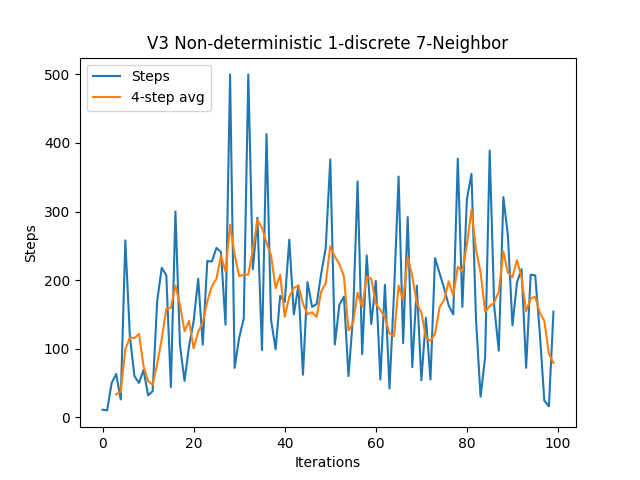
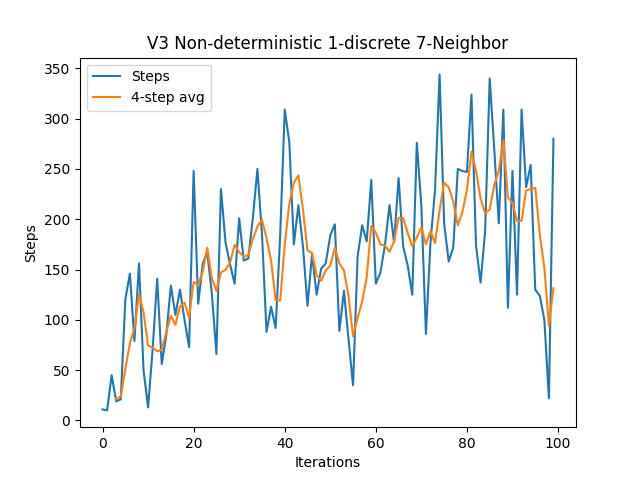
Lots of graphs, everything still run on 0.80 remembrance

diff --git a/classes/TreeV3.py b/classes/TreeV3.py
@@ -6,7 +6,7 @@ from classes.State import *
 
 
 class TreeV3:
-    def __init__(self, observation, num_nodes_checked=3, stop_exploring_distance=0.2):
+    def __init__(self, observation, num_nodes_checked=3, stop_exploring_distance=0.2, layers_checked=1):
         self.state_actions = [[], []]
         self.state_actions_linalg = [np.zeros((0, 4)), np.zeros((0, 4))]
         self.nodes = {}
@@ -19,6 +19,7 @@ class TreeV3:
         self.num_nodes_checked = num_nodes_checked
         self.stop_exploring_distance = stop_exploring_distance
         self.most_recent_action = -1
+        self.layers_checked = layers_checked
 
 
 
@@ -30,9 +31,16 @@ class TreeV3:
         self.steps_alive = 0
         self.update_result(observation)
 
-
     def pick_action(self):
+        evs = self.multi_lvl_evs(self.current_node.state, self.layers_checked)
+        action = np.argmin(evs)
+        self.most_recent_action = action
+        return action
+
+    def old_pick_action(self):
+        raise Exception("Deprecated")
         current_state = self.current_node.state
+
         new_states, farthest_distances = self.calc_new_states(current_state)
         if self.should_explore_given(farthest_distances):
             if farthest_distances[0] == -1:
@@ -46,6 +54,8 @@ class TreeV3:
             action = np.argmin(evs)
         self.most_recent_action = action
         return action
+
+
 
     def update_result(self, observation, terminated=False):
         if terminated:
@@ -84,6 +94,35 @@ class TreeV3:
         return len(self.nodes)
 
     ############### Internal helper functions ####################################
+
+    def multi_lvl_evs(self, current_state, layers_left):
+        new_states, farthest_distances = self.calc_new_states(current_state)
+
+        if layers_left == self.layers_checked and self.should_explore_given(farthest_distances):
+            if farthest_distances[0] == -1:
+                action = 0
+            elif farthest_distances[1] == -1:
+                action = 1
+            else:
+                action = 0 if farthest_distances[0] >= farthest_distances[1] else 1
+            evs = [1, 1]
+            evs[action] = 0
+            return evs
+
+
+        if layers_left == 1:
+            evs = self.get_evs_of_states(new_states)
+        else:
+            evs = []
+            for state in new_states:
+                next_evs = self.multi_lvl_evs(state, layers_left - 1)
+                evs.append(min(next_evs))
+
+        return evs
+
+
+
+
     def add_node_to_tree(self, node):
         self.nodes[node.state] = node
         node2 = self.nodes[node.state]
@@ -179,7 +218,7 @@ class TreeV3:
         return node
 
     def new_state_from_average(self, state, nodes, action):
-        deltas = [0, 0, 0, 0]
+        deltas = np.zeros(4)
         for node in nodes:
             start = node.state.obs
             end = node.children[action].state.obs

diff --git a/cartPole/TreeV3Client.py b/cartPole/TreeV3Client.py
@@ -14,15 +14,13 @@ from classes.TreeV3 import *
 
 
 ############### Constants ###################
-CUTOFFPOINT = 100
-BUCKET_ACCURACY = 0.1
+CUTOFFPOINT = 250
 SHOW_GAMES = False
 START_STRATEGY = EXPLORE
-STEPS_PER_NODE = 1
-NEIGHBORS = 7
+LAYERS_CHECKED = 3
+NEIGHBORS = 15
 
 
-# TODO steps 5 neighbors 1 why
 
 
 # Set to -1 for automatic rolling average generation.
@@ -39,7 +37,7 @@ DETERMINISTIC = False
 SEMI_DETERMINISTIC = 10
 ########### End constants #################
 
-path = f"plots\\treeV3\\{'deterministic' if DETERMINISTIC else 'non-deterministic'}\\{STEPS_PER_NODE}-discrete\\{CUTOFFPOINT}_gens"
+path = f"plots\\treeV3\\{str(LAYERS_CHECKED)}-layer\\{CUTOFFPOINT}_gens"
 fileHelper.createDirIfNotExist(path)
 
 if SHOW_GAMES:
@@ -79,14 +77,14 @@ def run_standard(show_results=True, save_results=True):
     iterations = 0
     data = np.array([], dtype=int)
 
-    tree = TreeV3(observation)
+    tree = TreeV3(observation, num_nodes_checked=NEIGHBORS, layers_checked=LAYERS_CHECKED)
     action = tree.pick_action()
     actionstring += str(action)
 
     while iterations < CUTOFFPOINT:
         observation, reward, terminated, truncated, info = env.step(action)
 
-        if steps_alive%STEPS_PER_NODE == 0 and not terminated:
+        if not terminated:
             tree.update_result(observation, terminated)
             action = tree.pick_action()
             actionstring += str(action)
@@ -123,7 +121,7 @@ def run_standard(show_results=True, save_results=True):
     plt.xlabel("Iterations")
     plt.ylabel("Steps")
     plt.legend(loc="upper left")
-    plt.title(f"V3 {'Deterministic' if DETERMINISTIC else 'Non-deterministic'} {STEPS_PER_NODE}-discrete {NEIGHBORS}-Neighbor")
+    plt.title(f"V3 {LAYERS_CHECKED}-layer {NEIGHBORS}-Neighbor")
 
     plot_name = path + f"\\{NEIGHBORS}N-plot.png"
     if save_results:
